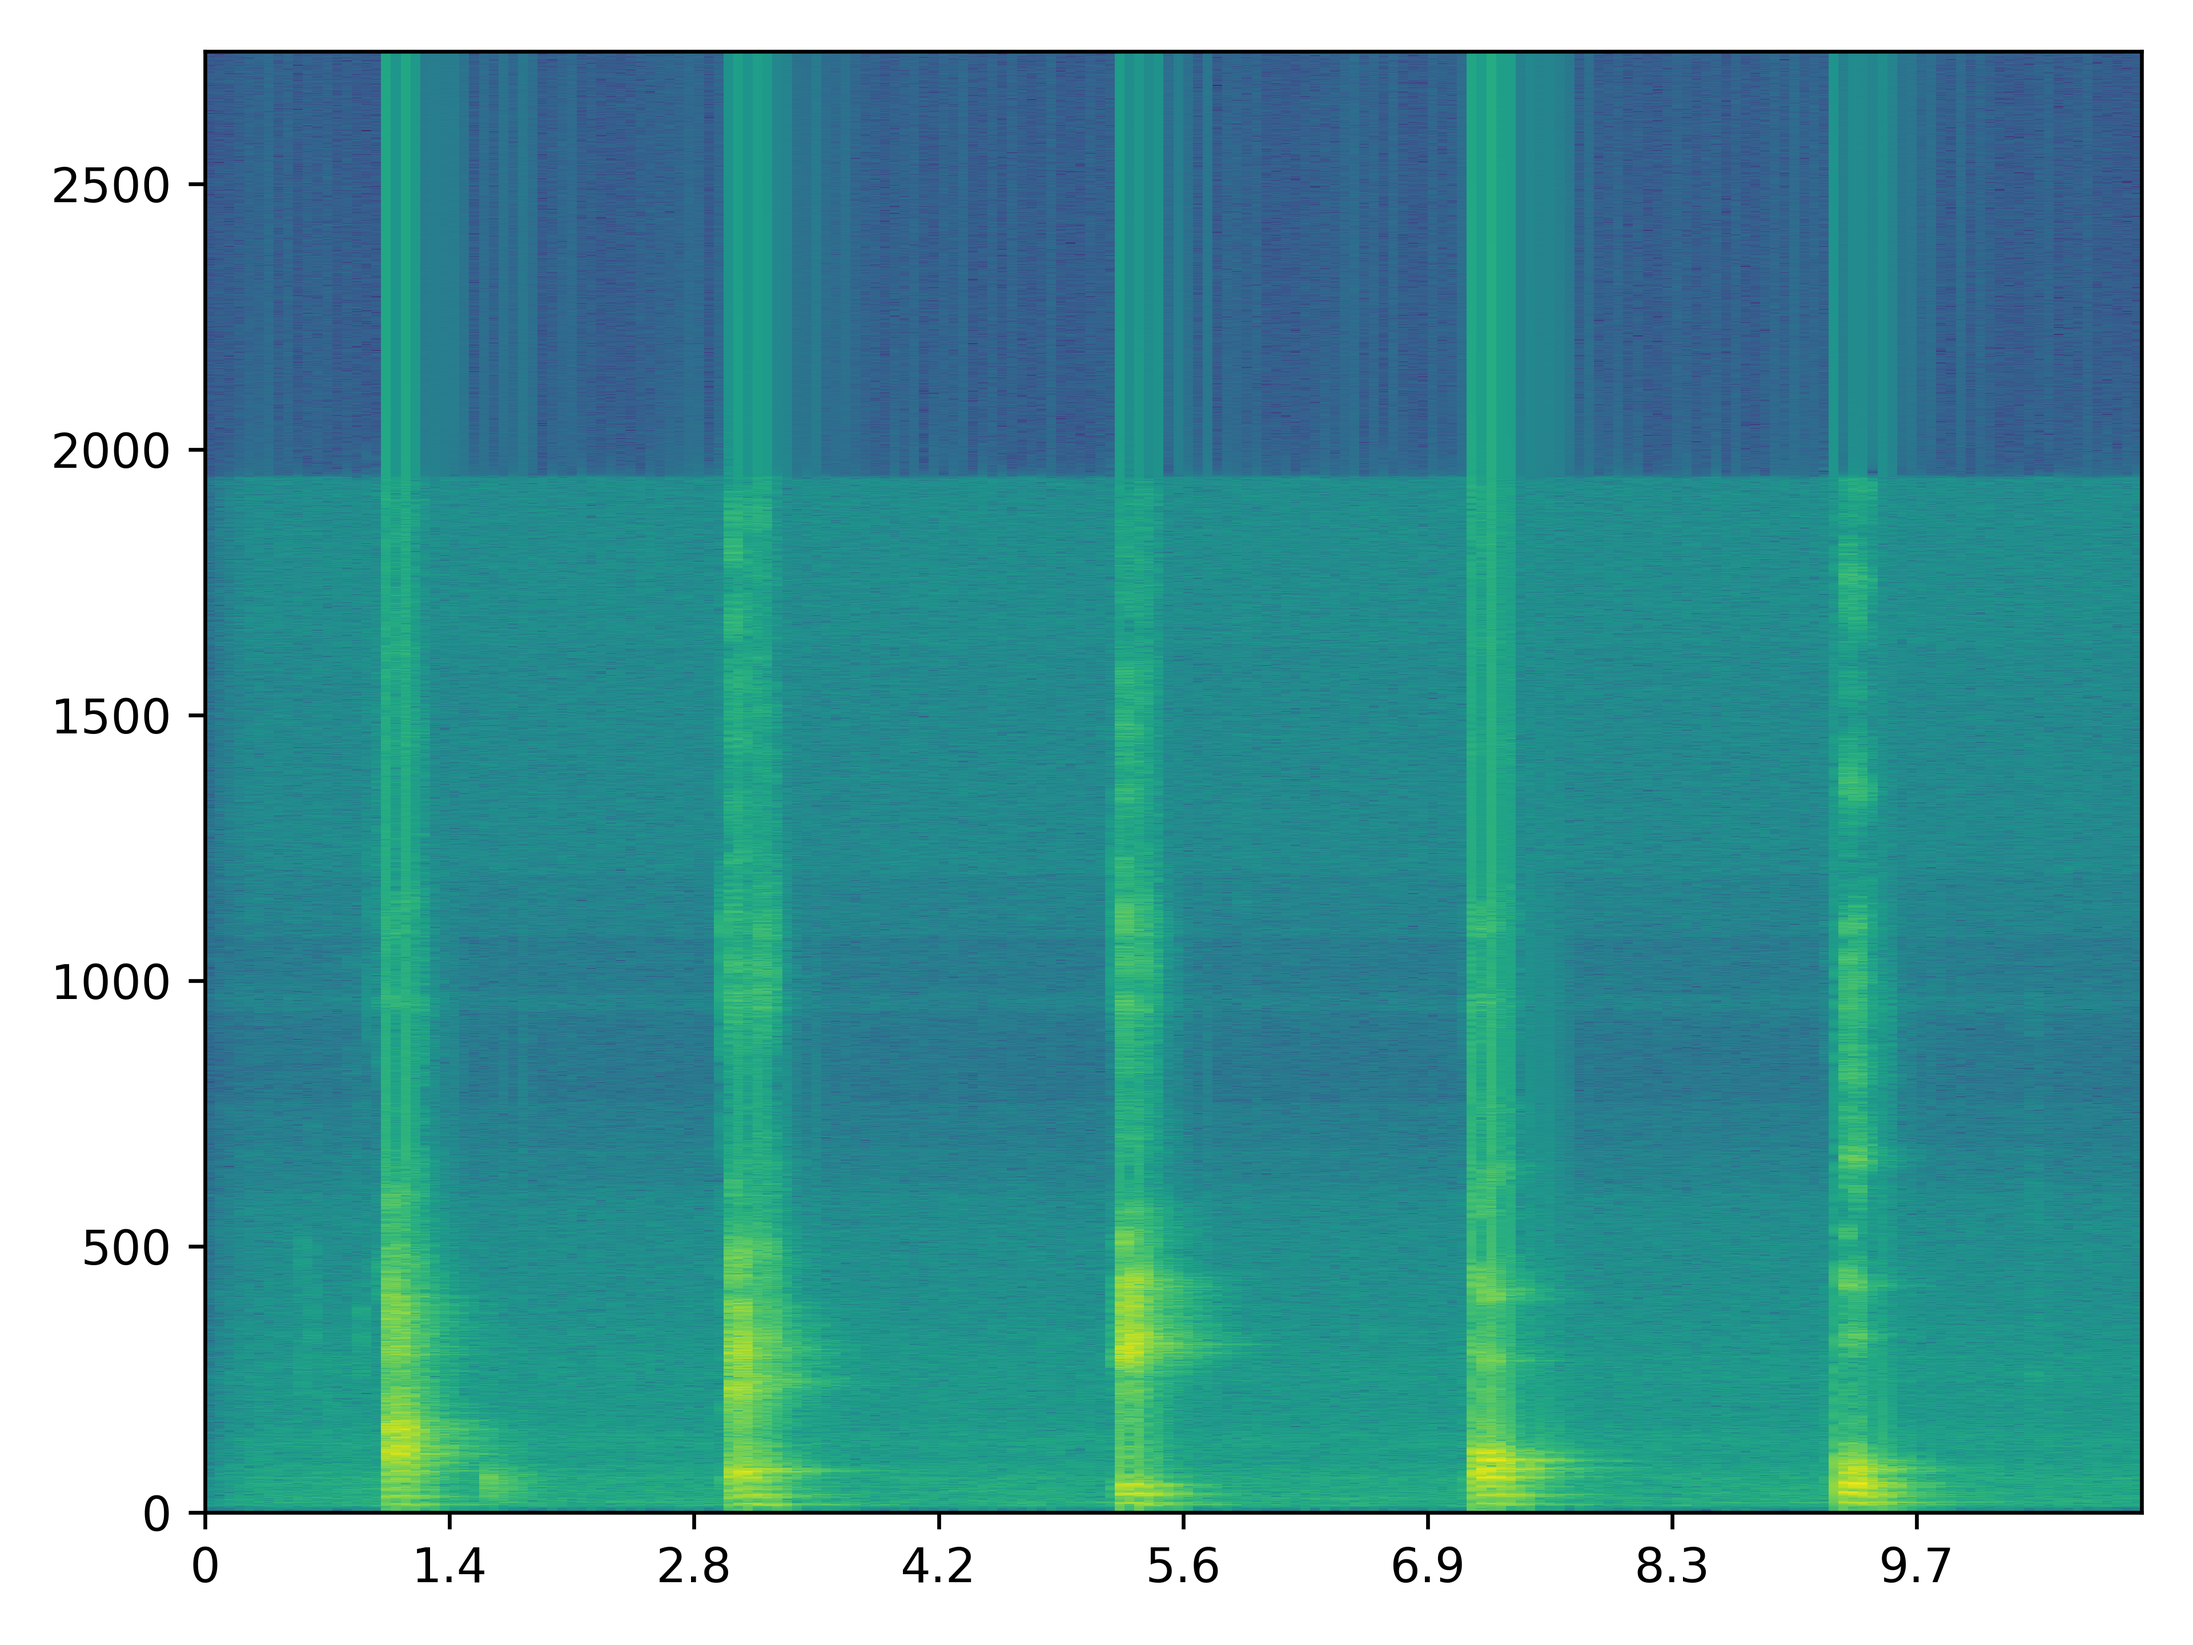
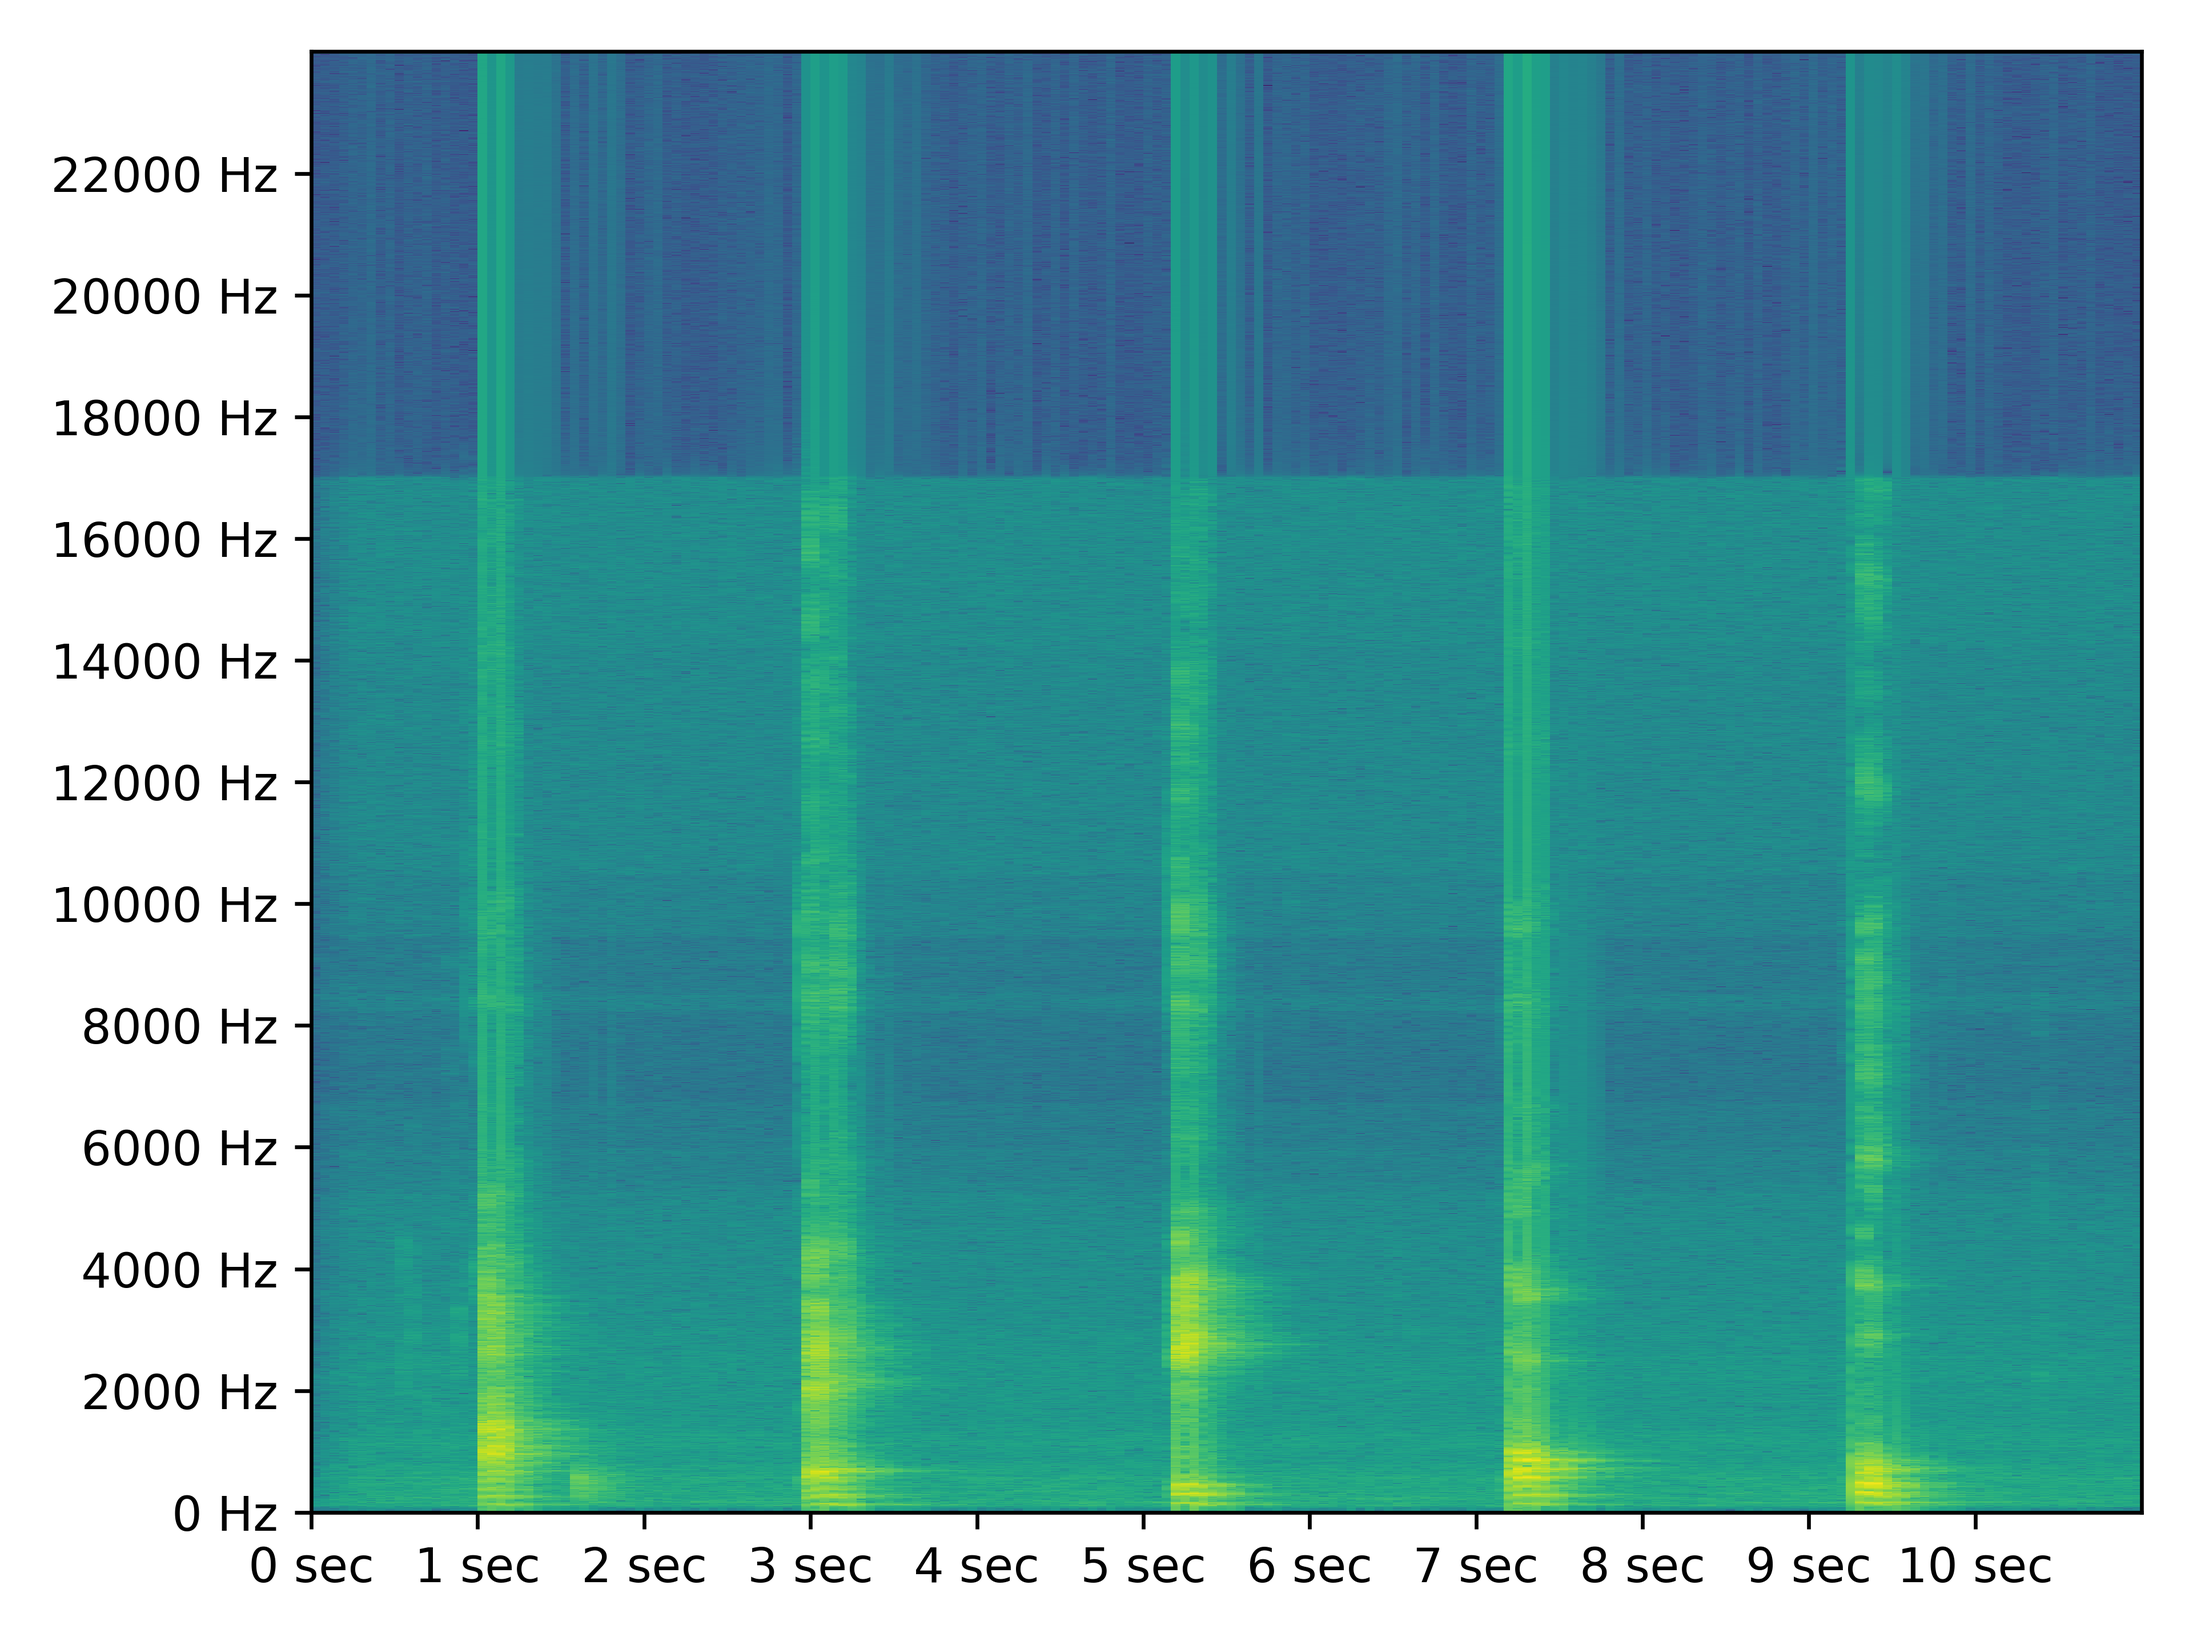
Label spectrogram axes correctly

diff --git a/Lab/Lab 4 spectrogram.py b/Lab/Lab 4 spectrogram.py
@@ -58,12 +58,21 @@ def generate_spectrogram(file: Path):
         fft = np.fft.fft(window)
         ffts[i, :] = 10 * np.log10(np.abs(fft[: window.size // 2]))
     plt.pcolormesh(ffts.T)
-    #plt.xticks([0, 1, 3, 4, 5, 7, 8])
-    ticks, _labels = plt.xticks()
-    seconds = sound.size // sampling_rate
+
+    def set_ticks(fn, max_position, max_value, value_step, suffix):
+        values = range(0, max_value, value_step)
+        ticks = [(max_position * value) // max_value for value in values]
+        labels = [str(value) + suffix for value in values]
+        fn(ticks, labels)
+
     left, right = plt.xlim()
+    bottom, top = plt.ylim()
+    assert bottom == 0
     assert left == 0
-    plt.xticks(ticks[:-1], ["0"] + [f"{min(seconds, (tick / right) * seconds):1.1f}" for tick in ticks[1:-1]])
+    max_freq = sampling_rate // 2
+    duration = sound.size // sampling_rate
+    set_ticks(plt.xticks, right, duration, 1, " sec")
+    set_ticks(plt.yticks, top, max_freq, 2000, " Hz")
     plt.tight_layout()
     savefig(file.with_suffix(""))
     plt.close()
